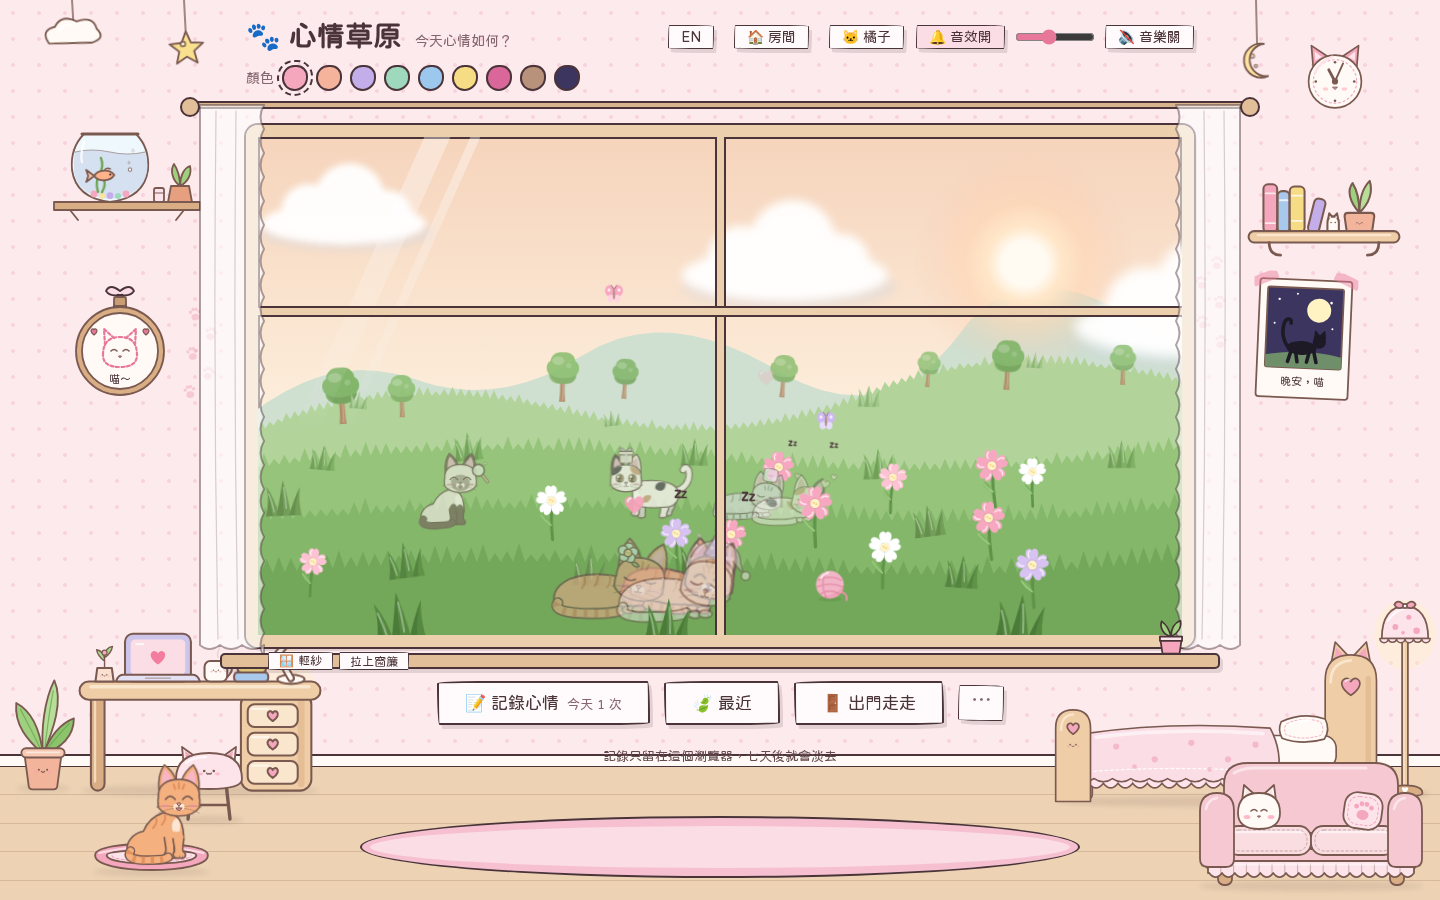
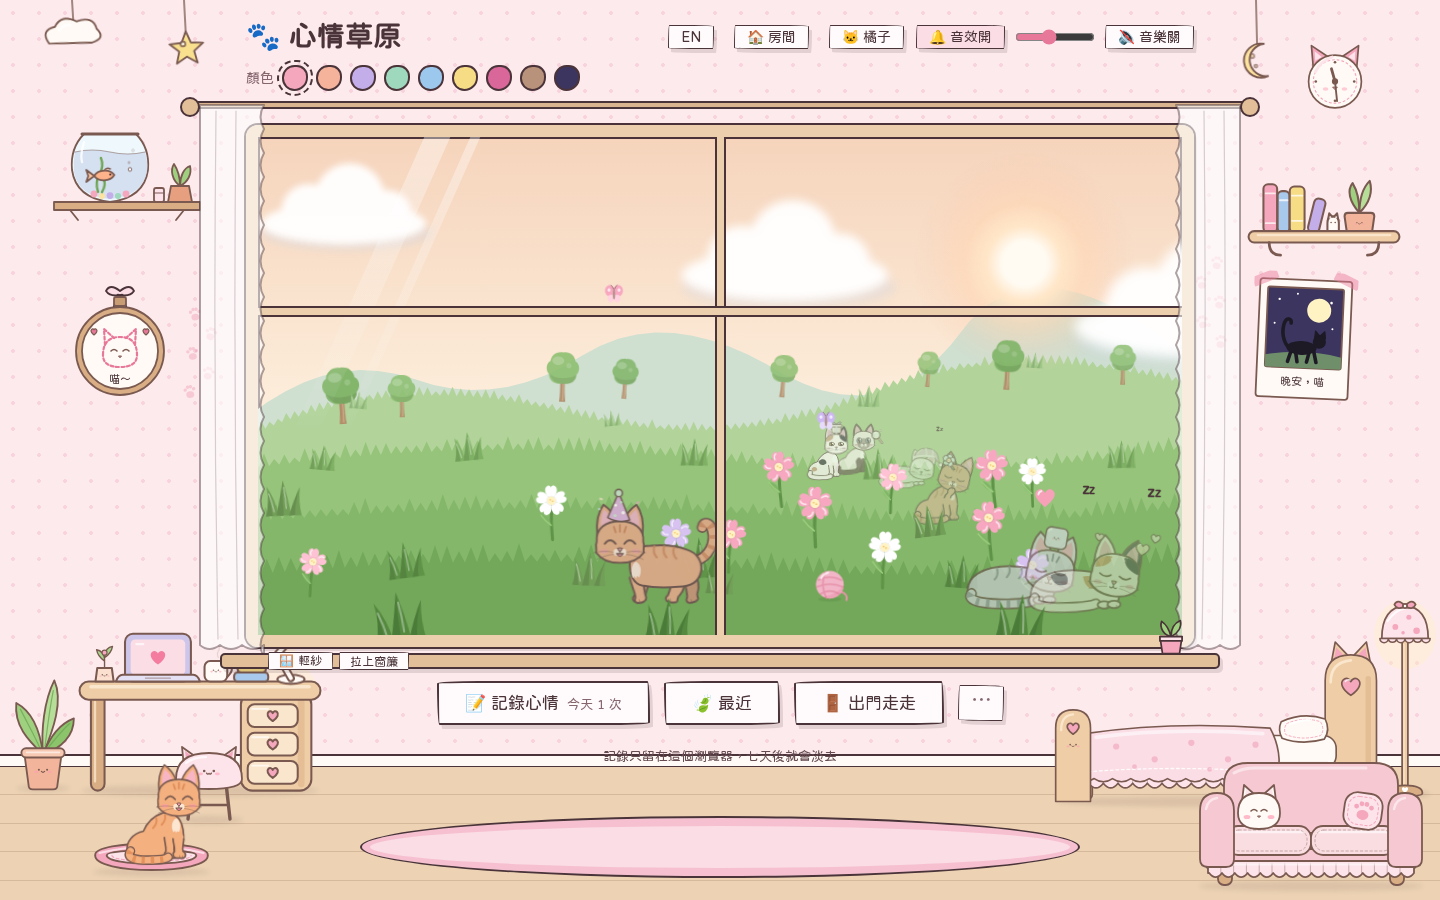
fix: remove subtitle

diff --git a/index.html b/index.html
@@ -787,7 +787,7 @@
 
 <main class="wrap">
   <header>
-    <h1>🐾 心情草原 <small>今天心情如何？</small></h1>
+    <h1>🐾 心情草原</h1>
     <button class="buddy-btn" id="langBtn" data-noi18n>EN</button>
     <button class="buddy-btn" id="roomBtn">🏠 房間</button>
     <button class="buddy-btn" id="buddyBtn" title="我的寵物">🐱 寵物</button>
@@ -1140,7 +1140,7 @@ const MEOW_CLIPS = [
 // 情緒詞的英文直接用 mood.json 裡的 label.en；你自己寫的心情內容不會被翻譯。
 const EN = {
   // 標題、按鈕
-  "心情草原 Mood Meadow": "Mood Meadow", "心情草原": "Mood Meadow", "今天心情如何？": "How are you today?",
+  "心情草原 Mood Meadow": "Mood Meadow", "心情草原": "Mood Meadow",
   "房間": "Room", "我的寵物": "My pet", "寵物": "Pet", "音效開": "Sound on", "音效關": "Sound off", "音效音量": "Sound volume",
   "音樂開": "Music on", "音樂關": "Music off", "音量": "Volume", "顏色": "Color",
   "櫻花粉": "Sakura", "蜜桃": "Peach", "薰衣草": "Lavender", "薄荷": "Mint", "天空": "Sky", "檸檬": "Lemon", "莓果": "Berry", "可可": "Cocoa",
